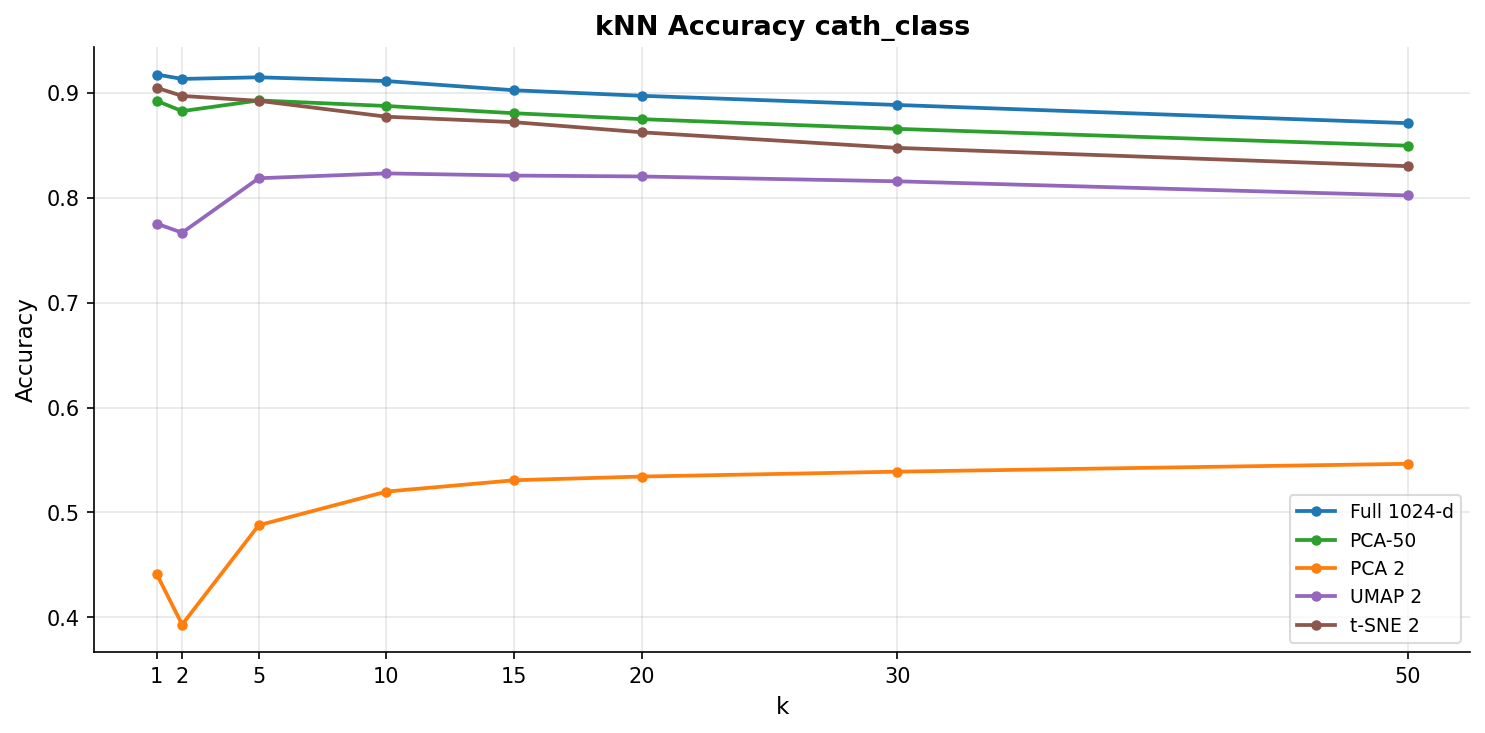
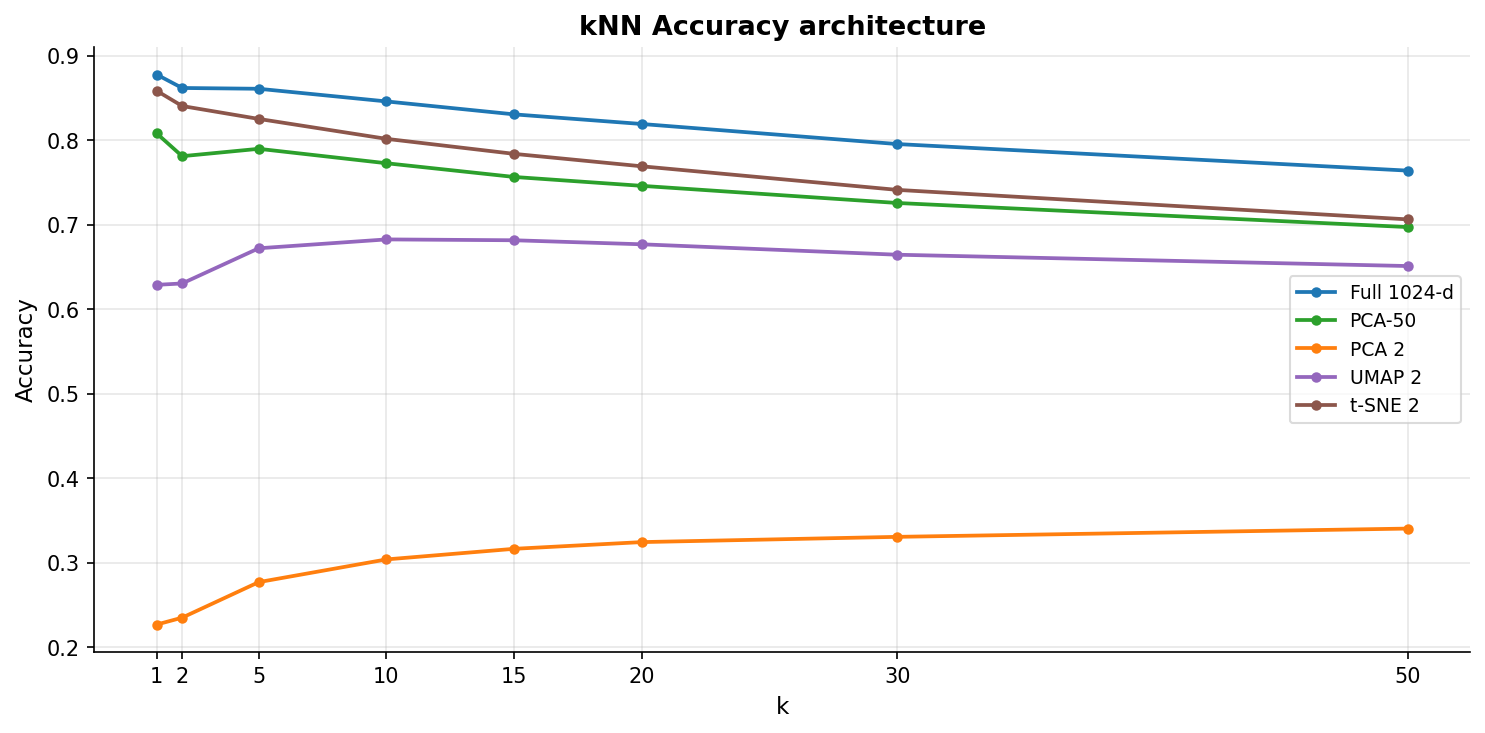
backup

diff --git a/PP_project/evaluation.py b/PP_project/evaluation.py
@@ -12,12 +12,12 @@ from sklearn.preprocessing import normalize, LabelEncoder
 from sklearn.metrics import silhouette_score
 
 # --- Config ---
-DATASET         = "toxins"
+DATASET         = "cath"
 RESULTS_DIR      = Path("protspace_results") / DATASET
 BUNDLE           = RESULTS_DIR / "data.parquetbundle"
 #ANNOT_PARQUET    = RESULTS_DIR / "annotated_embeddings.parquet"
 H5               = Path("embeddings") / f"{DATASET}.h5"
-LABEL_COL        = "protein_families"   # column in parquet labels to use for evaluation
+LABEL_COL        = "architecture"   # column in parquet labels to use for evaluation
 K_VALUES         = [1, 2, 5, 10, 15, 20, 30, 50]
 N_PCA_COMPONENTS = 50
 DELIMITER        = b"---PARQUET_DELIMITER---"
